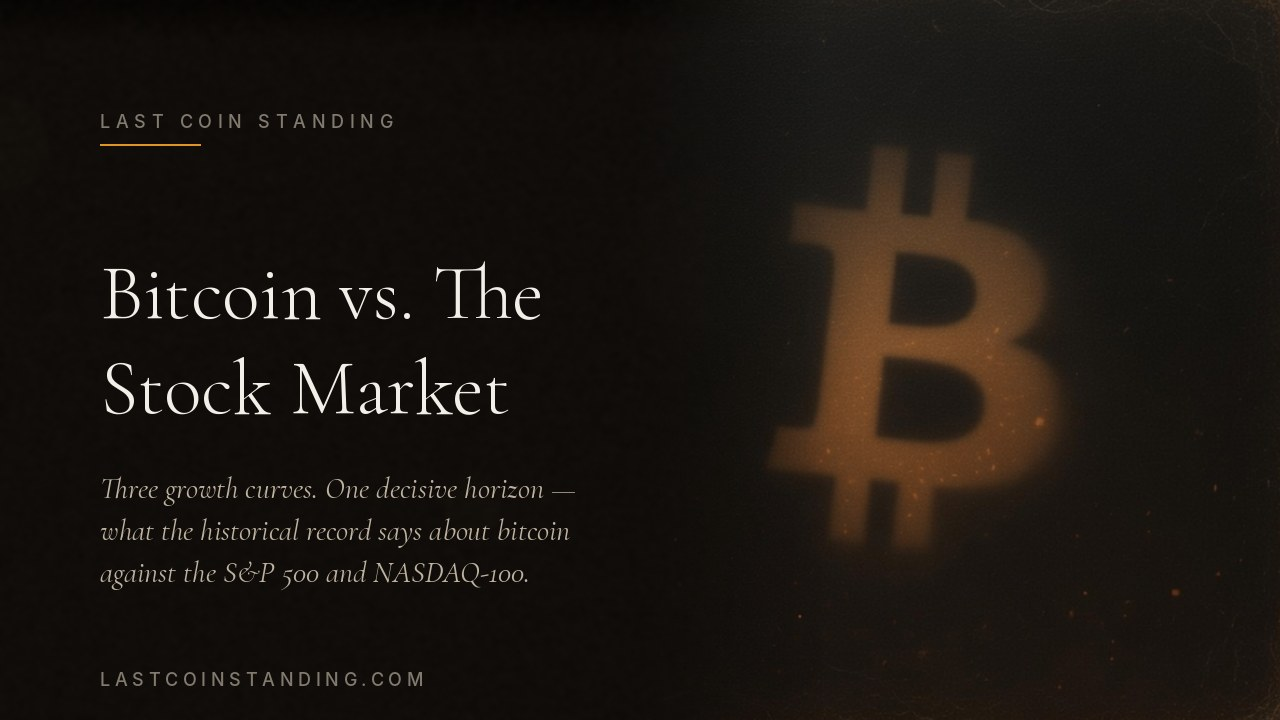
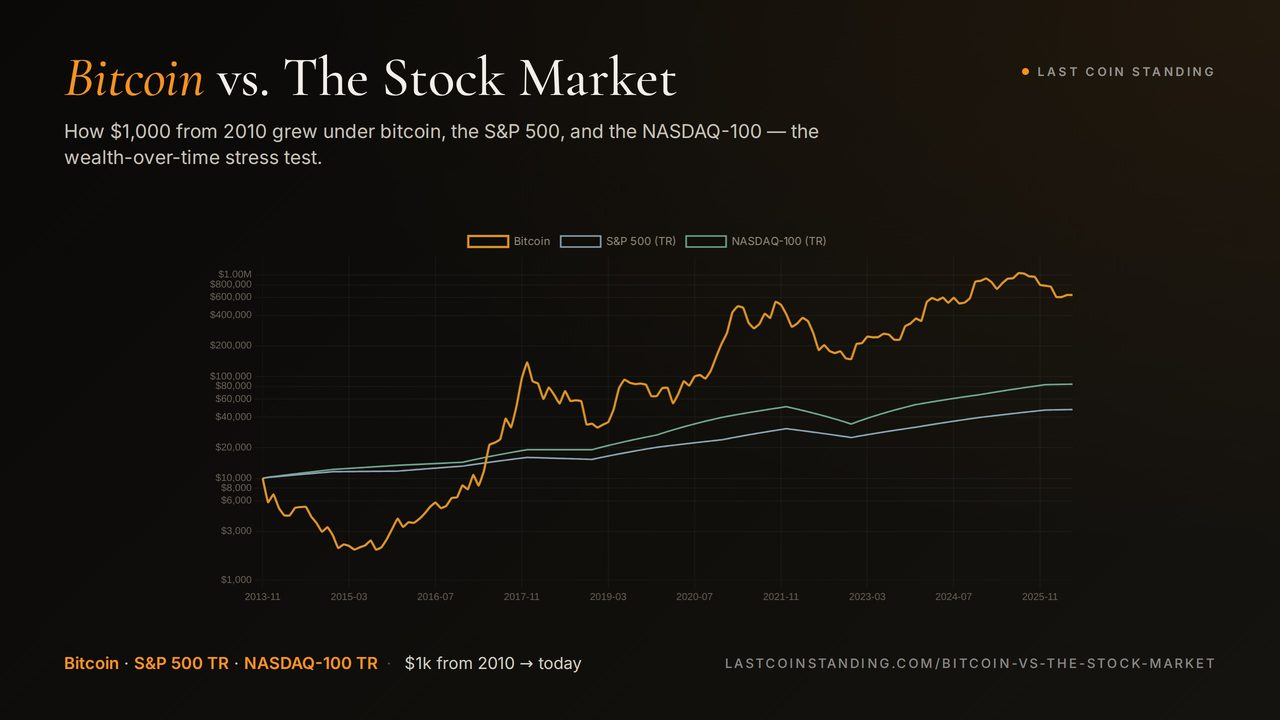
Custom OG images for BvSM, Retirement, Tools, Homepage
Following the /heatmap proof-of-concept, generating dedicated
Open Graph cards for the four remaining 'key pages' identified
in the OG rollout discussion. Same programmatic approach
(option C): Playwright-driven render that pulls real visuals
from the live page, wraps them in a shared editorial frame
with Cormorant Garamond title + Inter chrome + LCS brand mark.

# Compositions

## og-bitcoin-vs-the-stock-market.jpg (replaces existing)
Hero: the wealth-curve chart (#bvsmCalcChart) showing $1k from
2010 grown via bitcoin vs S&P 500 TR vs NASDAQ-100 TR. Title
'Bitcoin vs. The Stock Market' with 'Bitcoin' in italic amber
matching the page's H1. Subtitle 'How $1,000 from 2010 grew
under bitcoin, the S&P 500, and the NASDAQ-100 — the
wealth-over-time stress test.' Stats line names the three
series; URL bottom-right.

## og-the-bitcoin-retirement.jpg (replaces existing)
Hero: the Power Law projection chart (#projectionChart) showing
the historical-to-future trajectory with the floor/ceiling band,
'1.00 BTC' annotation at the user's retirement year and the
subsequent drawdown (0.78 / 0.67 / 0.59 BTC) trailing into
the 2070s. The 60/40 comparator line falling off cleanly tells
the story. Title 'The Bitcoin Retirement' with italic 'Bitcoin'
in amber. Page lede in subtitle ('find your escape velocity').

## og-image.jpg (replaces orphaned; now used by homepage)
Brand-forward composition: 'Last Coin Standing' in Cormorant
with italic amber 'Coin' middle accent. Cormorant-italic
[…]

diff --git a/src/_includes/_pageassets/index-head.html b/src/_includes/_pageassets/index-head.html
@@ -22,7 +22,7 @@
     <meta property="og:url" content="https://lastcoinstanding.com/">
     <meta property="og:title" content="Last Coin Standing">
     <meta property="og:description" content="Bitcoin education through contrast and clarity. Interactive visualizations exploring sound money, the trilemma, and Bitcoin's irreducible design.">
-    <meta property="og:image" content="https://lastcoinstanding.com/og-preview.jpg">
+    <meta property="og:image" content="https://lastcoinstanding.com/og-image.jpg">
     <meta property="og:image:width" content="1280">
     <meta property="og:image:height" content="720">
     <meta property="og:image:type" content="image/jpeg">
@@ -33,7 +33,7 @@
     <meta name="twitter:card" content="summary_large_image">
     <meta name="twitter:title" content="Last Coin Standing">
     <meta name="twitter:description" content="Bitcoin education through contrast and clarity. Interactive visualizations exploring sound money, the trilemma, and Bitcoin's irreducible design.">
-    <meta name="twitter:image" content="https://lastcoinstanding.com/og-preview.jpg">
+    <meta name="twitter:image" content="https://lastcoinstanding.com/og-image.jpg">
     <meta name="twitter:image:alt" content="Bitcoin education through contrast and clarity. Interactive visualizations exploring sound money, the trilemma, and Bitcoin's irreducible design.">
 
 <title>Last Coin Standing - Bitcoin Education Through Contrast and Clarity</title>
@@ -58,7 +58,7 @@
           "url": "https://lastcoinstanding.com/",
           "logo": {
             "@type": "ImageObject",
-            "url": "https://lastcoinstanding.com/og-preview.jpg"
+            "url": "https://lastcoinstanding.com/og-image.jpg"
           },
           "sameAs": [
             "https://x.com/LastCoinStandng",

diff --git a/src/_includes/_pageassets/calculators-head.html b/src/_includes/_pageassets/calculators-head.html
@@ -13,7 +13,7 @@
 <meta property="og:description" content="Interactive tools for thinking through Bitcoin decisions in your own life.">
 <meta property="og:type" content="website">
 <meta property="og:url" content="https://lastcoinstanding.com/calculators.html">
-<meta property="og:image" content="https://lastcoinstanding.com/og-preview.jpg">
+<meta property="og:image" content="https://lastcoinstanding.com/og-calculators.jpg">
 <meta property="og:image:width" content="1280">
 <meta property="og:image:height" content="720">
 <meta property="og:image:type" content="image/jpeg">
@@ -21,5 +21,5 @@
 <meta name="twitter:card" content="summary_large_image">
 <meta name="twitter:title" content="Tools — Last Coin Standing">
 <meta name="twitter:description" content="Interactive tools for thinking through Bitcoin decisions in your own life.">
-<meta name="twitter:image" content="https://lastcoinstanding.com/og-preview.jpg">
+<meta name="twitter:image" content="https://lastcoinstanding.com/og-calculators.jpg">
 <meta name="twitter:image:alt" content="A gallery of Bitcoin calculators and visualizations">

diff --git a/.eleventy.js b/.eleventy.js
@@ -42,6 +42,7 @@ module.exports = function (eleventyConfig) {
     'og-borrowing-against-your-stack.jpg',
     'og-bitcoin-backed-mortgages.jpg',
     'og-heatmap.jpg',
+    'og-calculators.jpg',
     'bitcoin-vs-real-estate-og.png',
     // Admin tool stays as standalone HTML
     'admin.html',